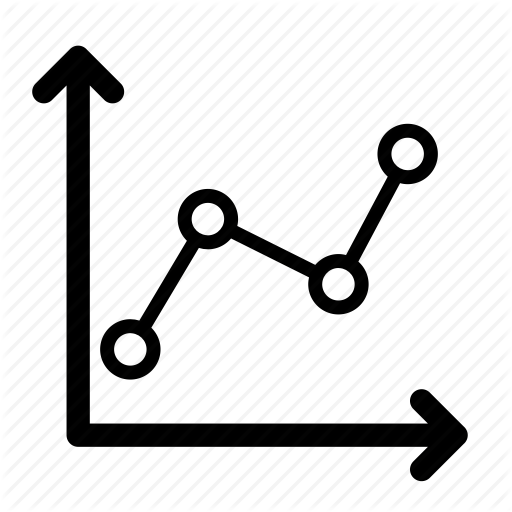
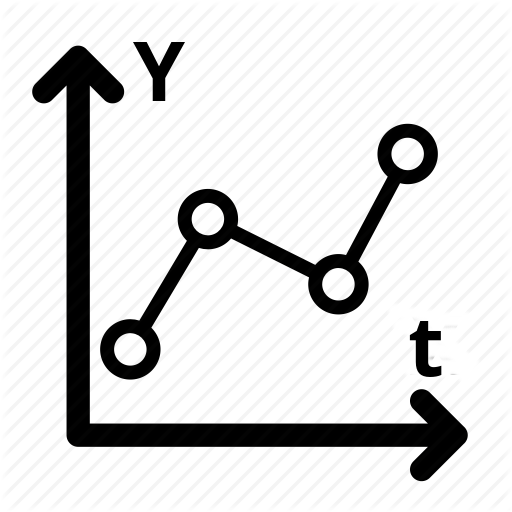
slow controls dashboard: added xy plot widget

Changed region(s): [[0.25, 0.0625, 0.375, 0.2188], [0.7812, 0.625, 0.875, 0.75]]

diff --git a/WebGUI/js/widgetLibrary.js b/WebGUI/js/widgetLibrary.js
@@ -17,13 +17,14 @@ widgetLibrary.typeToSrc =		{
 									"1" :"table.html",
 									"2" :"gauge_widget.html",
 							   		"3" :"plotly_bar_chart.html",
-									"4" :"thermometer.html",
-									"5" :"siren_alarm.html",
-									"6" :"label.html",
-									"7" :"led.html",
-									"8" :"picture.html",
-									"9" :"root_visualizer.html",
-									"10" :"2d_stop-light.html"
+							   		"4" :"plotly_xy_chart.html",
+									"5" :"thermometer.html",
+									"6" :"siren_alarm.html",
+									"7" :"label.html",
+									"8" :"led.html",
+									"9" :"picture.html",
+									"10" :"2d_stop-light.html",
+									"11" :"root_visualizer.html"
 								}
 
 widgetLibrary.typeToImgSrc =	{
@@ -31,52 +32,60 @@ widgetLibrary.typeToImgSrc =	{
 		   							"1" :"table-icon.png",
 									"2" :"gauge-icon.png",
 		   							"3" :"basic-chart-icon.png",
-		   					 		"4" :"thermometer-icon.png" ,
-		   					 		"5" :"red_siren.png",
-		   					 		"6" :"label-icon.png",
-		   					 		"7" :"led-icon.png",
-		   					 		"8" :"picture-icon.png",
-		   					 		"9" :"root-icon.png",
-		   					 		"10" :"2d_stop-light.png"
+		   							"4" :"basic-xy-chart-icon.png",
+		   					 		"5" :"thermometer-icon.png" ,
+		   					 		"6" :"red_siren.png",
+		   					 		"7" :"label-icon.png",
+		   					 		"8" :"led-icon.png",
+		   					 		"9" :"picture-icon.png",
+		   					 		"10" :"2d_stop-light.png",
+		   					 		"11" :"root-icon.png"
 								}
 
 widgetLibrary.typeToName =		{
 									"0" : "Plain Text",
 									"1" : "Basic PVs Table",
 									"2" : "Basic Gauge Style Display",
-									"3" : "Basic Line Chart",
-									"4" : "Basic Thermometer",
-									"5" : "Basic Siren Alarm",
-									"6" : "Basic Label for widgets",
-									"7" : "Basic Led",
-									"8" : "Basic picture",
-									"9" : "Basic Root file viewer",
-									"10" : "Basic 2D stop-light widget"
+									"3" : "Basic Time Line Chart",
+									"4" : "Basic XY Line Chart",
+									"5" : "Basic Thermometer",
+									"6" : "Basic Siren Alarm",
+									"7" : "Basic Label for widgets",
+									"8" : "Basic Led",
+									"9" : "Basic picture",
+									"10" : "Basic 2D stop-light viewer",
+									"11" : "Basic Root file widget"
 								}
 
 widgetLibrary.typeToPurpose =	{
 									"0" : "Plain Text",
 									"1" : "PVs Table",
 									"2" : "Gauge",
-									"3" : "Chart",
-									"4" : "Thermometer",
-									"5" : "Siren Alarm",
-									"6" : "Label widgets",
-									"7" : "Led",
-									"8" : "Picture",
-									"9" : "Root file",
-									"10" : "2D stop-light"
+									"3" : "Time Chart",
+									"4" : "XY Chart",
+									"5" : "Thermometer",
+									"6" : "Siren Alarm",
+									"7" : "Label widgets",
+									"8" : "Led",
+									"9" : "Picture",
+									"10" : "2D stop-light",
+									"11" : "Root file"
 								}
 
 widgetLibrary.dimensions =		{
 									"3": {
-										"X": "300",
+										"X": "350",
 										"Y": "200",
 										"Scale": "True"
 									},
-									"8": {
-										"X": "300",
-										"Y": "300",
+									"4": {
+										"X": "350",
+										"Y": "200",
+										"Scale": "True"
+									},
+									"1": {
+										"X": "400",
+										"Y": "200",
 										"Scale": "True"
 									},
 									"10": {

diff --git a/WebGUI/html/SlowControlsDashboard.html b/WebGUI/html/SlowControlsDashboard.html
@@ -491,7 +491,7 @@
 
 
 			//=====================================================================================
-			var PHOEBUS_MAP = {"textupdate": 0, "table": 1, "meter": 2, "stripchart": 3, "thermometer": 4, "siren": 5, "label": 6, "led": 7, "picture": 8, "root": 9, "2dstoplight": 10};
+			var PHOEBUS_MAP = {"textupdate": 0, "table": 1, "meter": 2, "stripchart": 3, "xychart": 4, "thermometer": 5, "siren": 6, "label": 7, "led": 8, "picture": 9, "2dstoplight": 10, "root": 11};
 			function loadPhoebusPageReqHandler(req)
 			{
 				Debug.log("loadPhoebusPageReqHandler() was called. Req: " + req.responseText);

diff --git a/WebGUI/html/widgets/picture.html b/WebGUI/html/widgets/picture.html
@@ -18,7 +18,7 @@
 
 		<script>
 
-			var parameters_ = {"class": "", "upload_image": "picture-icon.png", "inner_map_html": ""};
+			var parameters_ = {"class": "", "upload_image": "picture-icon.png", "inner_map_html": "https://www.image-map.net/"};
 			var IMAGE_PATH = "/WebPath/UserWebPath/ControlsDashboardData/private/";
 			//functions:
 			//init()
